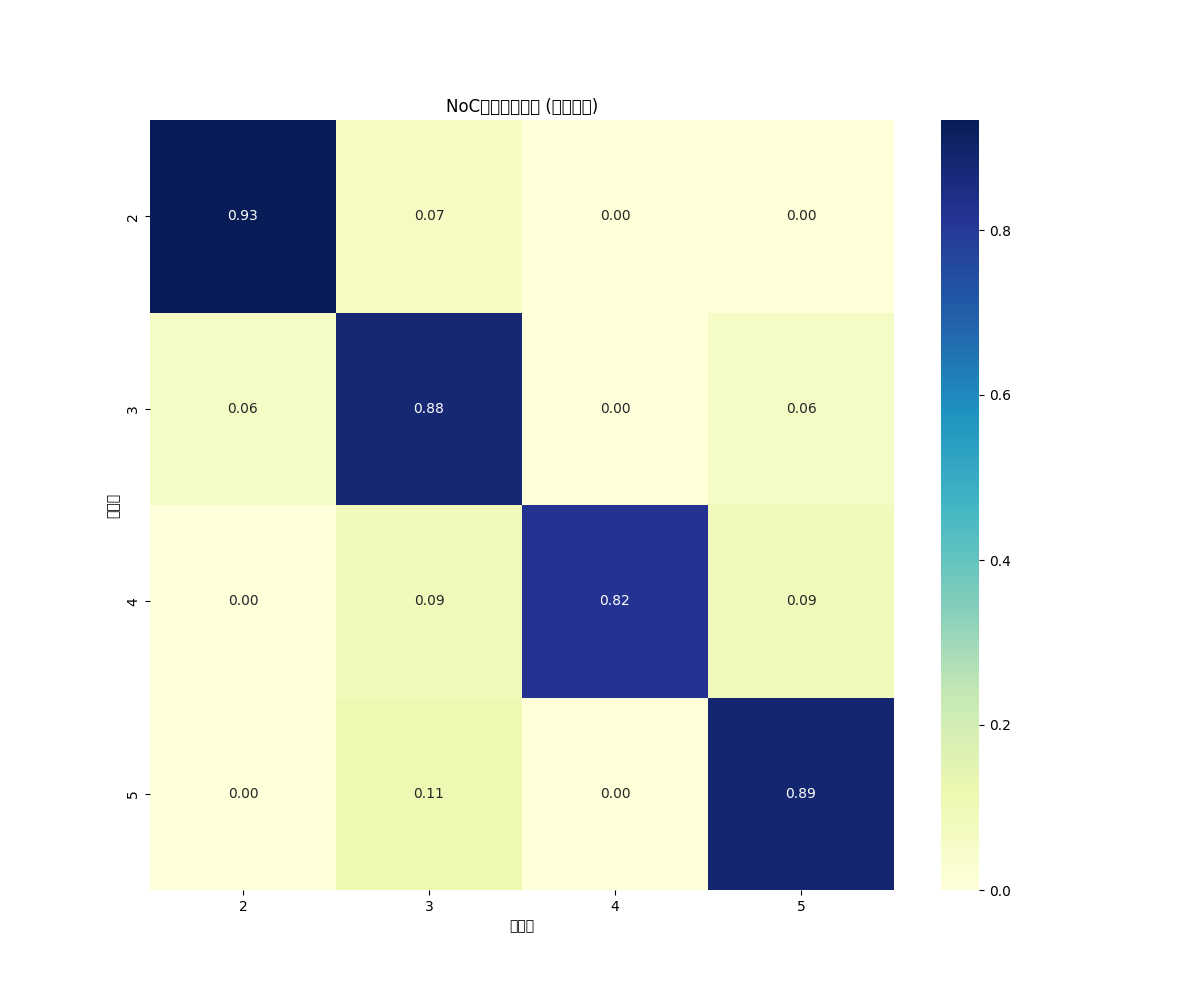
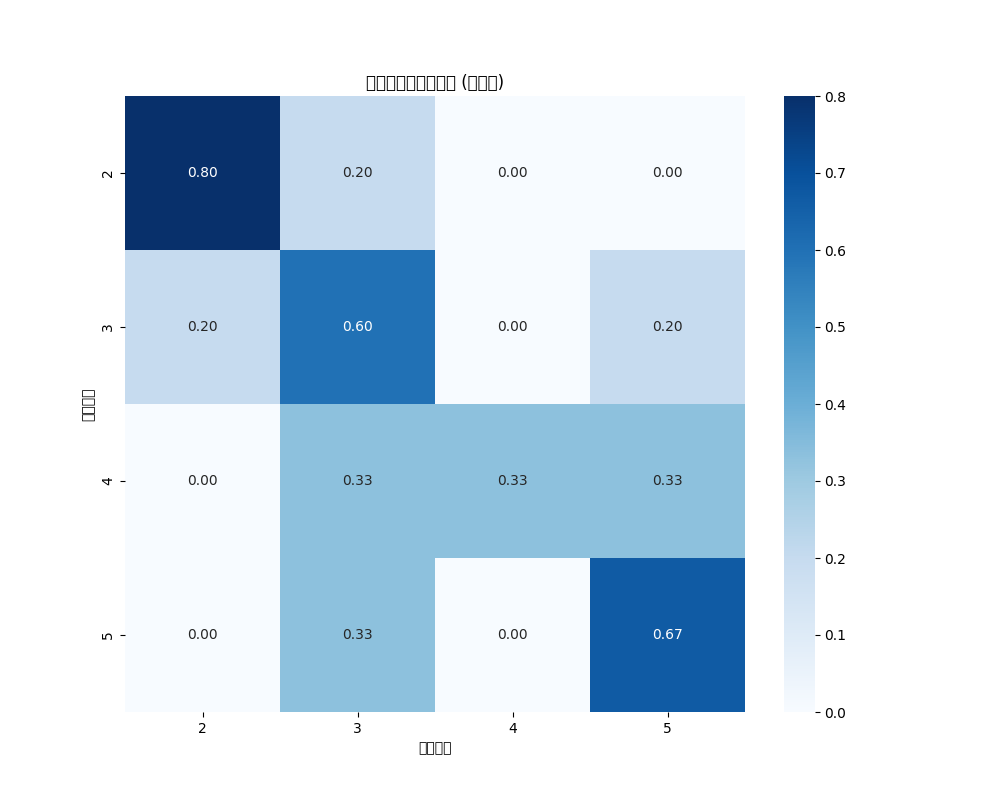
ROC/AUC update

diff --git a/Q1/V2.91.py b/Q1/V2.91.py
@@ -1623,3 +1623,152 @@ except Exception as e_shap:
 
 print("--- SHAP分析完成 ---")
 print(f"\n脚本 {os.path.basename(__file__)} (版本 2.9) 执行完毕。")
+
+# --- ROC曲线与AUC评分分析 ---
+print("\n--- ROC曲线与AUC评分分析 ---")
+
+try:
+    from sklearn.metrics import roc_curve, auc, precision_recall_curve, average_precision_score
+    from sklearn.preprocessing import label_binarize
+    from sklearn.multiclass import OneVsRestClassifier
+    import numpy as np
+    import matplotlib.pyplot as plt
+    import matplotlib.cm as cm
+    
+    # 确保我们有训练好的模型和测试数据
+    if 'X_test' in locals() and 'y_test' in locals() and 'best_model' in locals():
+        # 获取唯一类别
+        classes = sorted(np.unique(y))
+        n_classes = len(classes)
+        
+        # 将标签进行二值化处理用于多分类ROC计算
+        y_test_bin = label_binarize(y_test, classes=classes)
+        
+        # 初始化图表
+        plt.figure(figsize=(12, 10))
+        
+        # 如果模型已经有predict_proba方法（如随机森林、决策树等）
+        if hasattr(best_model, 'predict_proba'):
+            # 直接使用模型
+            y_score = best_model.predict_proba(X_test)
+            
+            # 为每个类别计算ROC曲线和AUC
+            fpr = dict()
+            tpr = dict()
+            roc_auc = dict()
+            
+            for i in range(n_classes):
+                fpr[i], tpr[i], _ = roc_curve(y_test_bin[:, i], y_score[:, i])
+                roc_auc[i] = auc(fpr[i], tpr[i])
+            
+            # 计算微平均ROC曲线和AUC
+            fpr["micro"], tpr["micro"], _ = roc_curve(y_test_bin.ravel(), y_score.ravel())
+            roc_auc["micro"] = auc(fpr["micro"], tpr["micro"])
+            
+            # 绘制所有ROC曲线
+            colors = cm.rainbow(np.linspace(0, 1, n_classes))
+            
+            # 绘制每个类别的ROC曲线
+            for i, color in zip(range(n_classes), colors):
+                plt.plot(fpr[i], tpr[i], color=color, lw=2,
+                         label=f'类别 {classes[i]} 的ROC曲线 (AUC = {roc_auc[i]:.2f})')
+            
+            # 绘制微平均ROC曲线
+            plt.plot(fpr["micro"], tpr["micro"],
+                     label=f'微平均ROC曲线 (AUC = {roc_auc["micro"]:.2f})',
+                     color='deeppink', linestyle=':', linewidth=4)
+            
+            # 绘制随机猜测的ROC曲线
+            plt.plot([0, 1], [0, 1], 'k--', lw=2)
+            
+            # 设置图表
+            plt.xlim([0.0, 1.0])
+            plt.ylim([0.0, 1.05])
+            plt.xlabel('假正例率 (FPR)')
+            plt.ylabel('真正例率 (TPR)')
+            plt.title(f'{best_model_name}的ROC曲线')
+            plt.legend(loc="lower right")
+            
+            # 保存ROC曲线图
+            roc_curve_path = os.path.join(PLOTS_DIR, 'roc_curve_v2.91.png')
+            plt.savefig(roc_curve_path)
+            plt.close()
+            print(f"ROC曲线图已保存至: {roc_curve_path}")
+            
+            # 打印每个类别的AUC值
+            print("\n各类别AUC值:")
+            for i in range(n_classes):
+                print(f"类别 {classes[i]}: AUC = {roc_auc[i]:.4f}")
+            print(f"微平均AUC: {roc_auc['micro']:.4f}")
+            
+            # 绘制精确率-召回率曲线
+            plt.figure(figsize=(12, 10))
+            
+            # 计算每个类别的PR曲线
+            precision = dict()
+            recall = dict()
+            avg_precision = dict()
+            
+            for i in range(n_classes):
+                precision[i], recall[i], _ = precision_recall_curve(y_test_bin[:, i], y_score[:, i])
+                avg_precision[i] = average_precision_score(y_test_bin[:, i], y_score[:, i])
+            
+            # 绘制每个类别的PR曲线
+            for i, color in zip(range(n_classes), colors):
+                plt.plot(recall[i], precision[i], color=color, lw=2,
+                         label=f'类别 {classes[i]} 的PR曲线 (AP = {avg_precision[i]:.2f})')
+            
+            # 设置图表
+            plt.xlim([0.0, 1.0])
+            plt.ylim([0.0, 1.05])
+            plt.xlabel('召回率 (Recall)')
+            plt.ylabel('精确率 (Precision)')
+            plt.title(f'{best_model_name}的精确率-召回率曲线')
+            plt.legend(loc="lower left")
+            
+            # 保存PR曲线图
+            pr_curve_path = os.path.join(PLOTS_DIR, 'pr_curve_v2.91.png')
+            plt.savefig(pr_curve_path)
+            plt.close()
+            print(f"精确率-召回率曲线图已保存至: {pr_curve_path}")
+            
+            # 打印每个类别的AP值
+            print("\n各类别平均精确率(AP)值:")
+            for i in range(n_classes):
+                print(f"类别 {classes[i]}: AP = {avg_precision[i]:.4f}")
+            
+        else:
+            # 如果模型没有predict_proba方法
+            print(f"警告: {best_model_name}不支持概率预测，无法计算ROC曲线和AUC。")
+            
+        # 创建混淆矩阵热图(归一化)
+        plt.figure(figsize=(10, 8))
+        cm_test = confusion_matrix(y_test, y_pred)
+        cm_test_norm = cm_test.astype('float') / cm_test.sum(axis=1)[:, np.newaxis]
+        
+        # 绘制混淆矩阵
+        sns.heatmap(cm_test_norm, annot=True, fmt='.2f', cmap='Blues',
+                   xticklabels=[f"{c}" for c in classes],
+                   yticklabels=[f"{c}" for c in classes])
+        plt.xlabel('预测标签')
+        plt.ylabel('真实标签')
+        plt.title(f'{best_model_name}混淆矩阵 (归一化)')
+        
+        # 保存混淆矩阵
+        cm_norm_path = os.path.join(PLOTS_DIR, 'confusion_matrix_norm_v2.91.png')
+        plt.savefig(cm_norm_path)
+        plt.close()
+        print(f"归一化混淆矩阵已保存至: {cm_norm_path}")
+        
+    else:
+        print("错误: 模型训练未完成或测试数据不可用，无法生成ROC曲线和计算AUC。")
+
+except ModuleNotFoundError as e:
+    print(f"错误: 缺少必要的库 - {e}")
+    print("请安装所需库: pip install scikit-learn matplotlib")
+except Exception as e:
+    print(f"ROC曲线生成过程中发生错误: {e}")
+    import traceback
+    traceback.print_exc()
+
+print("--- ROC/AUC分析完成 ---")
